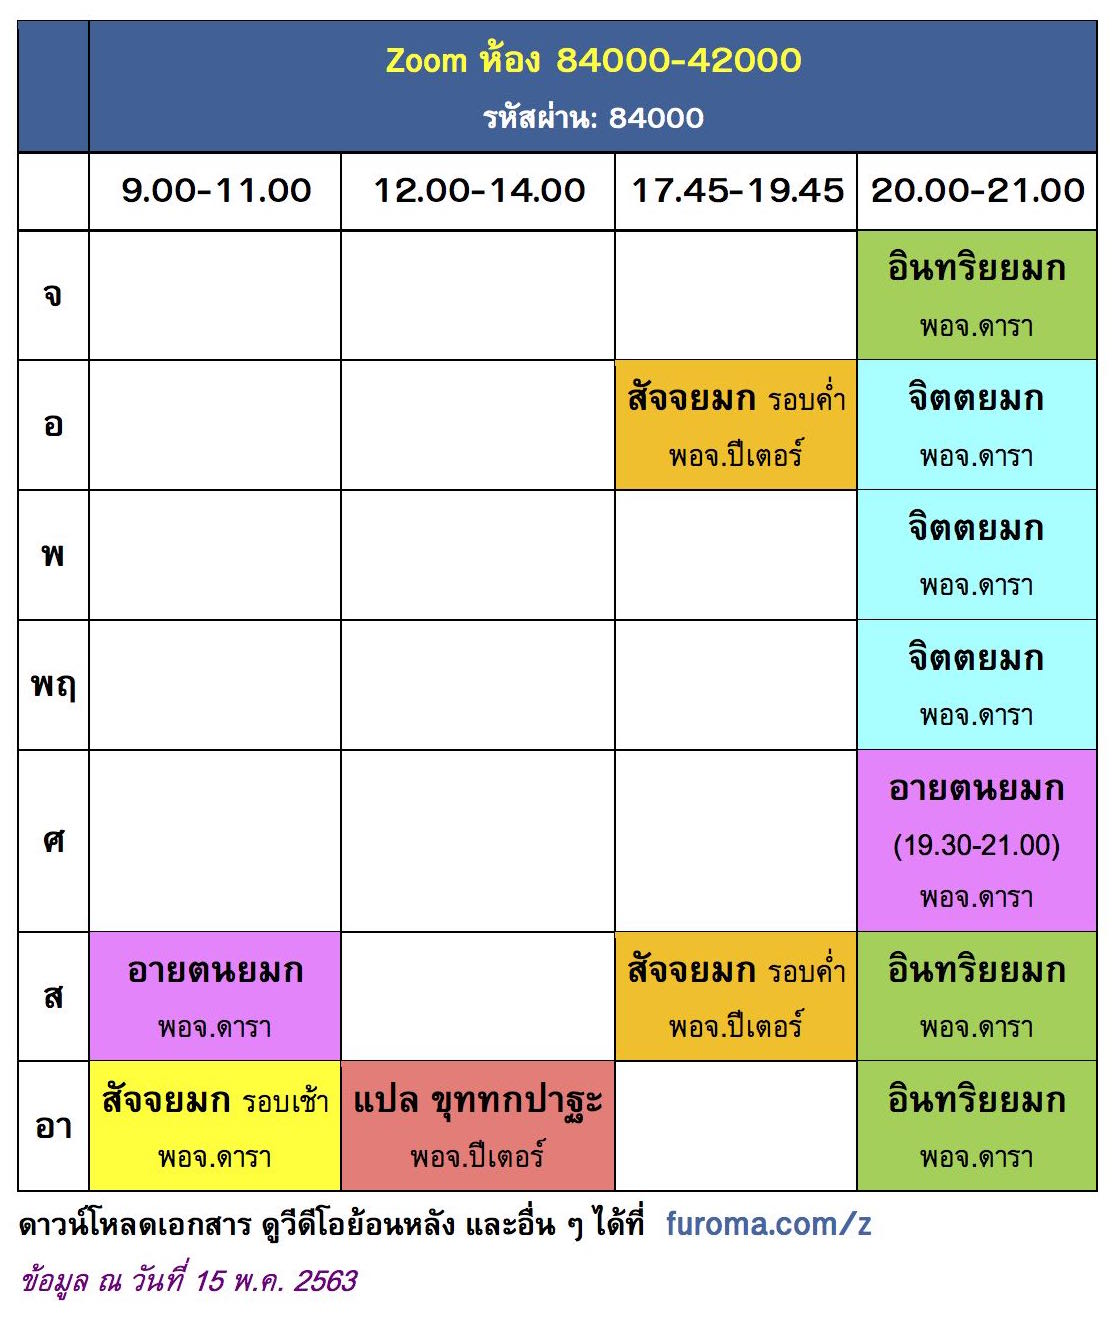
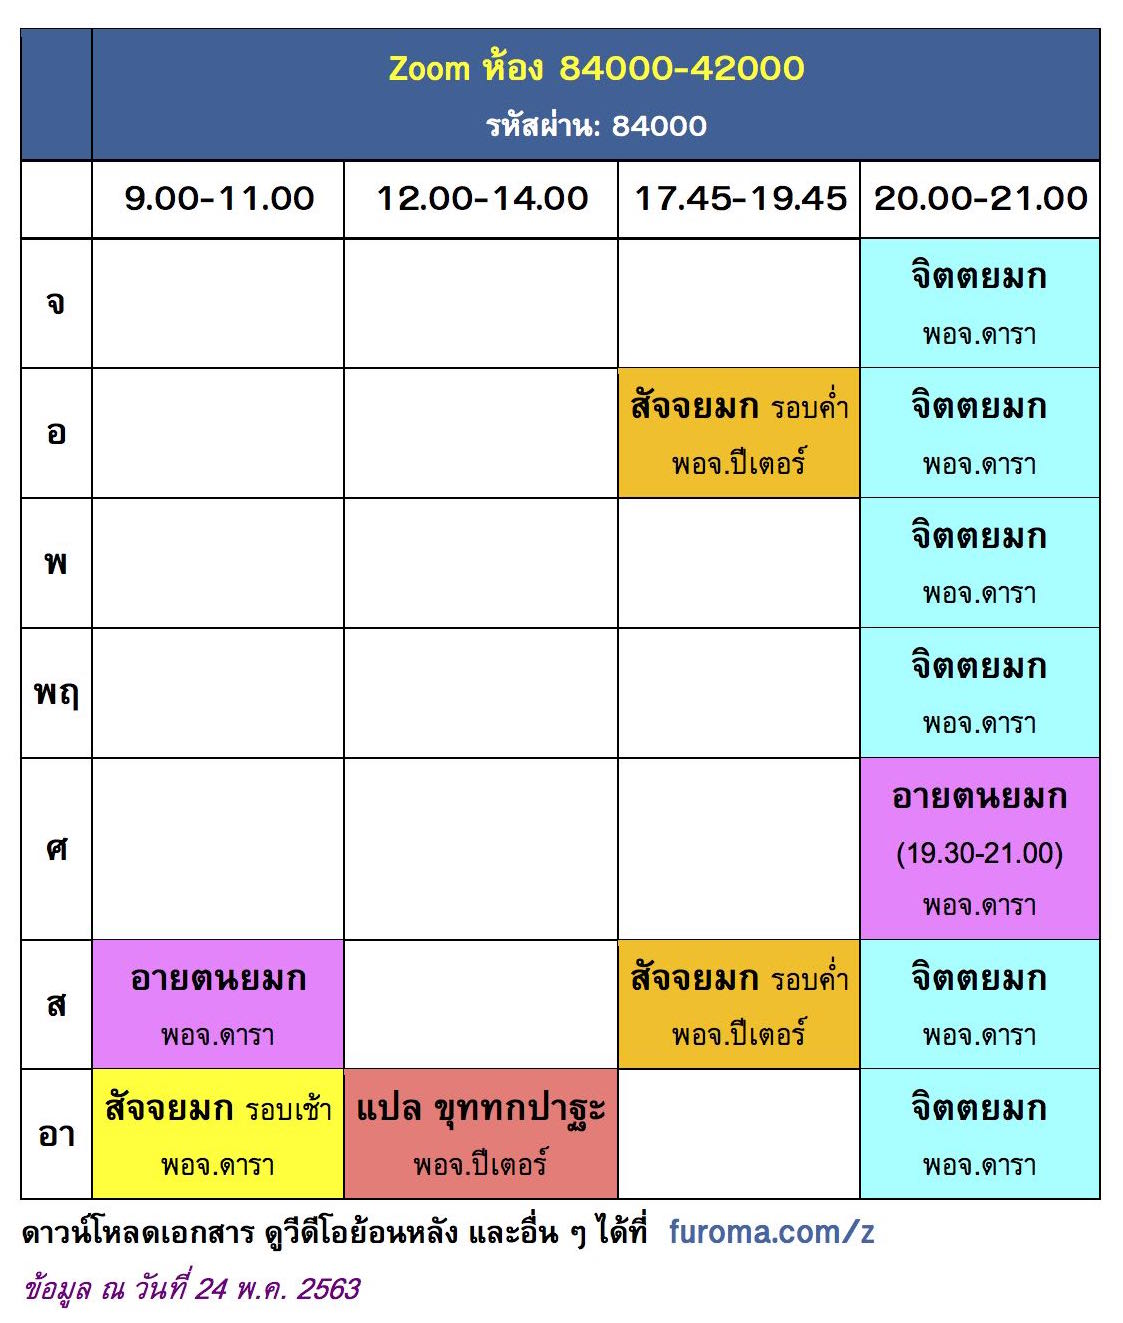
2020-05-24

Changed region(s): [[0.0, 0.0, 1.0, 0.9917], [0.3052, 0.3409, 0.3357, 0.4029], [0.3052, 0.4649, 0.3357, 0.4958]]

diff --git a/z/index.html b/z/index.html
@@ -61,7 +61,7 @@
 <B>ปัจจยาการวิภังค์</B>: เลื่อนคลาสวันที่ 15 เม.ย. เป็นวันที่ 14 เม.ย.</SPAN><!---->
 
 <TABLE cellpadding=0 cellspacing=0 align=center><TR valign=top><TD>
-<A href=42000.jpg?05-15v><IMG border=0 src="42000.jpg?05-15v" width=500px height=600px /></A>
+<A href=42000.jpg?05-24><IMG border=0 src="42000.jpg?05-24" width=500px height=600px /></A>
 <A href=84000.jpg?05-15v><IMG border=0 src="84000.jpg?05-15v" width=500px height=600px /></A></TABLE>
 (คลิกที่รูป เพื่อดูตารางสอนที่ใหญ่ขึ้น)<BR/>
 
